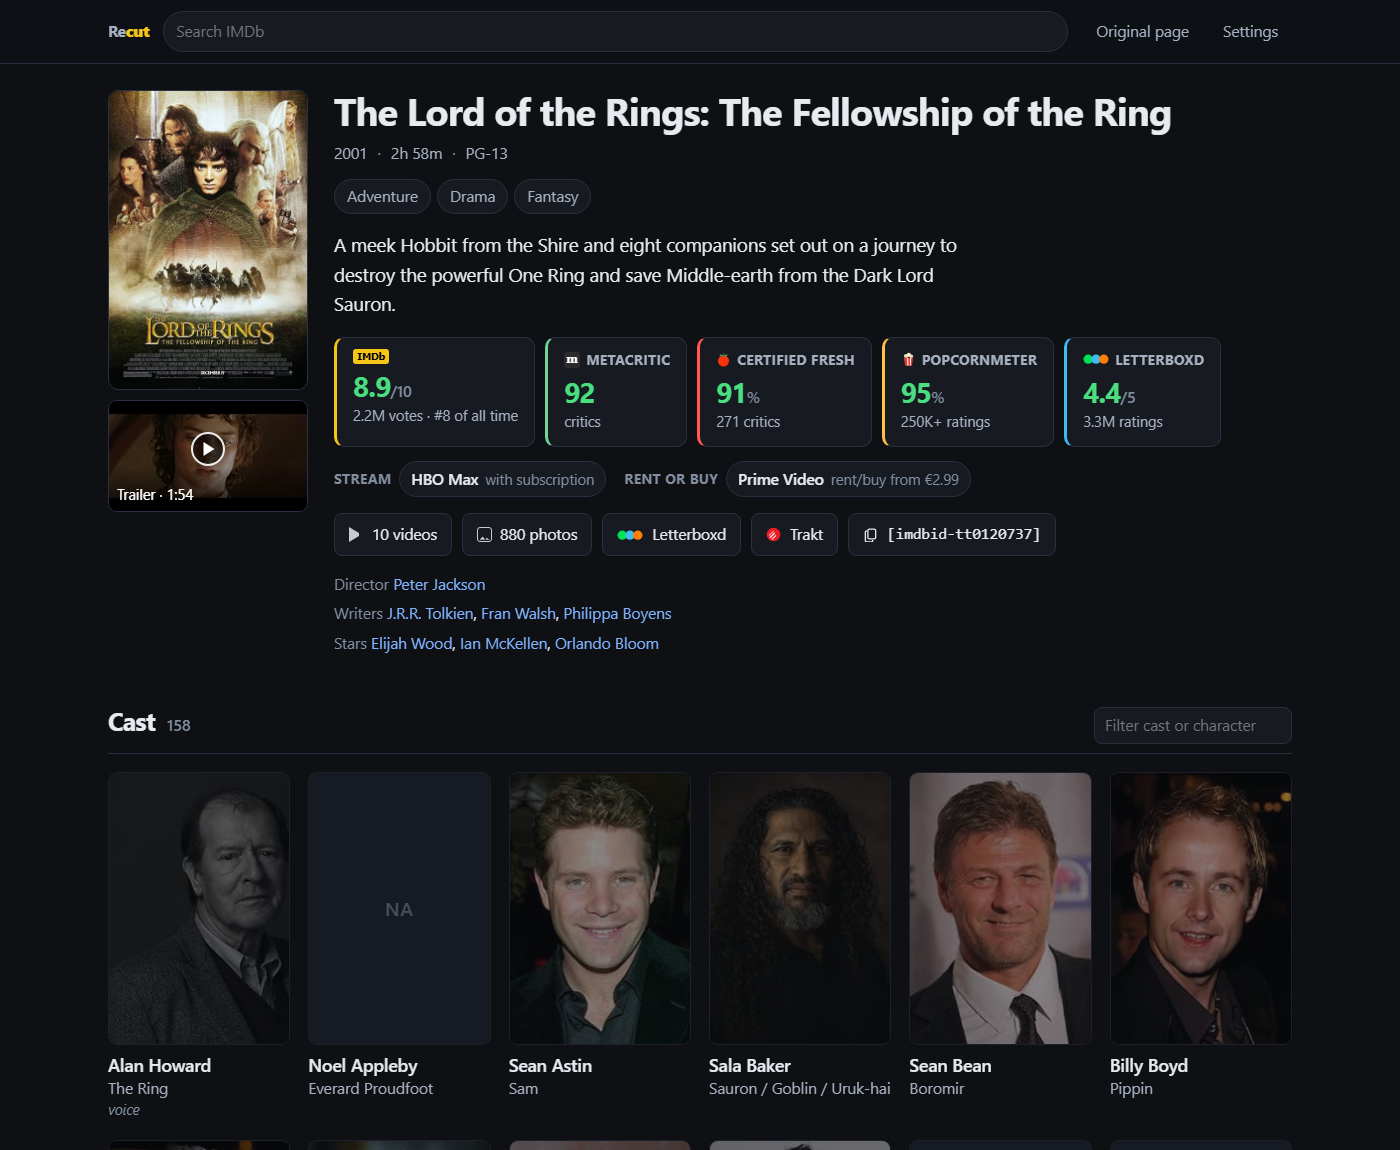
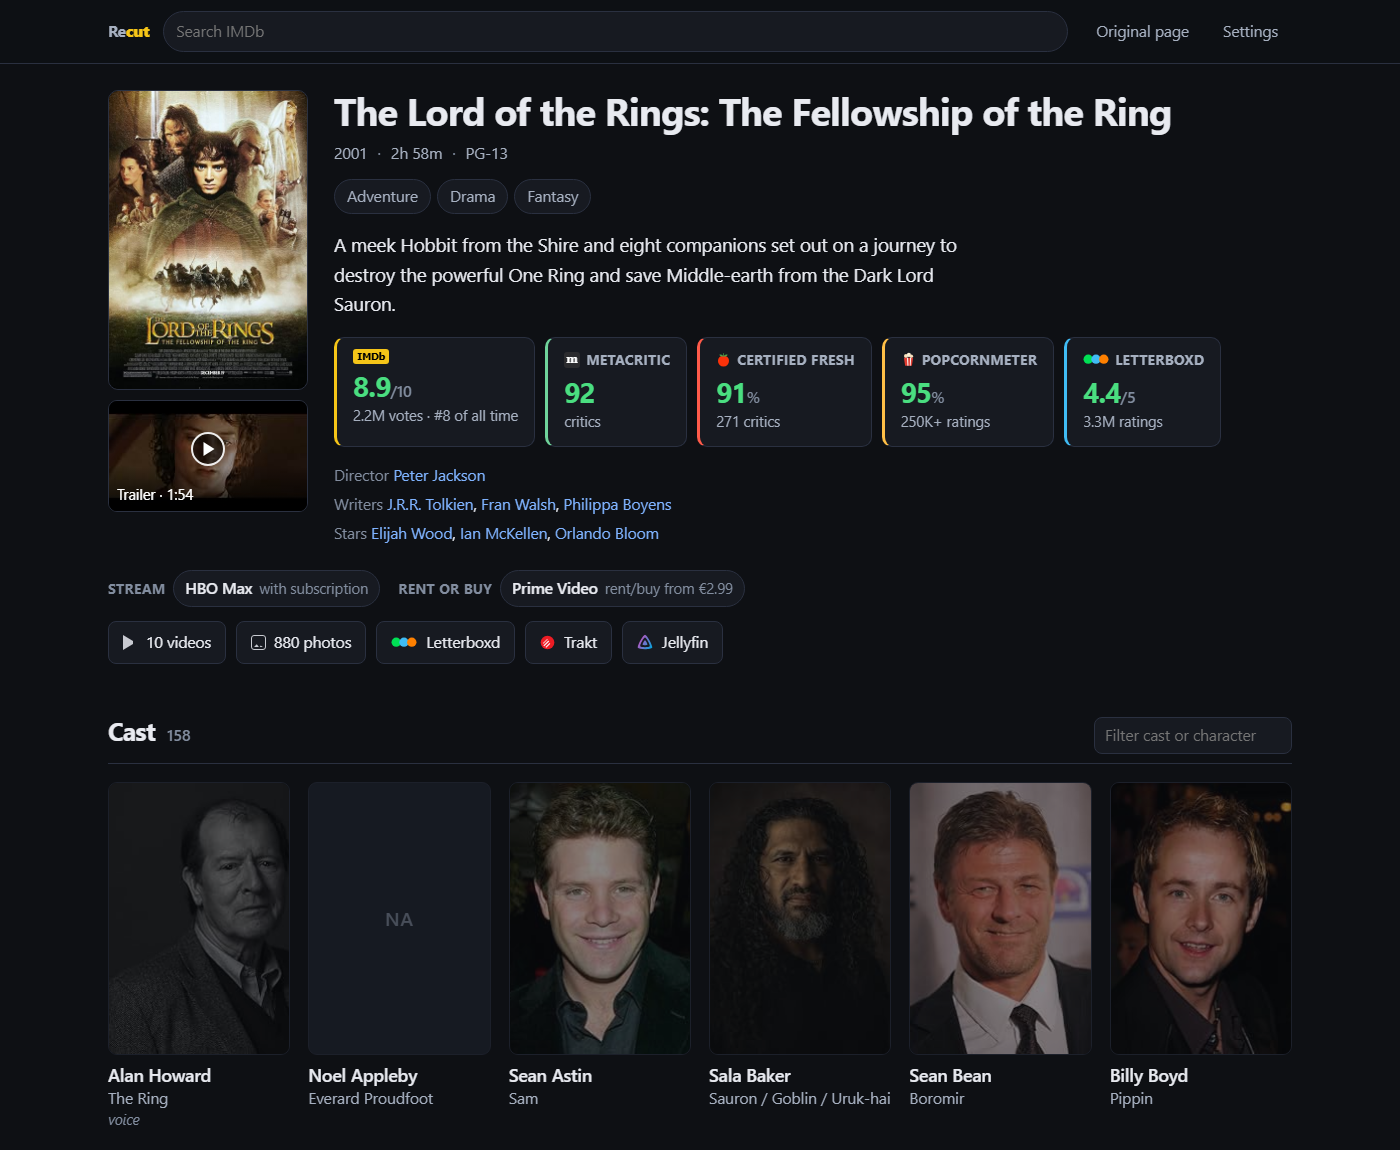
A Jellyfin button, two watch switches, and a hero that is not two thirds empty
The button is Jellyfin's own icon and the word Jellyfin, not a line of
[imdbid-tt0120737] set in monospace. The tag is still exactly what lands
on the clipboard, and the tooltip still says so. The icon is the
project's own file from jellyfin/jellyfin-ux, CC BY-SA 4.0, attributed
in the source and the README - an approximation would have been a worse
answer than the clipboard glyph it replaces.

Where-to-watch is two switches now, mapped per category: STREAMING and
FREE follow "where to stream", RENT/BUY and THEATER follow "where to
rent or buy" - a cinema ticket is paid per viewing, so it belongs with
the latter. A category neither table knows is shown while either half is
on, so IMDb adding a name cannot make a row vanish unexplained. Anyone
who had turned the old single setting off meant it, so loadSettings
reads the legacy value once and carries the false across, but only where
the new key has no value of its own.

And the Jellyfin setting was never listed in the settings panel, so the
only way to switch on the button it gated was the storage layer.
load-test walks SETTING_DEFS and asserts every on/off key appears in the
panel: a switch nobody can reach is not optional, it is off.

The hero: where-to-watch, the buttons and the media panel are all
naturally wide and were stacked in the narrow right-hand column, which
made that column far taller than the poster and left the bottom two
thirds of the left column blank. They are one band across both columns
[…]

diff --git a/recut.user.js b/recut.user.js
@@ -1,7 +1,7 @@
 // ==UserScript==
 // @name         Recut for IMDb
 // @namespace    https://github.com/MohsenBlur/imdb-recut
-// @version      2.13.0
+// @version      2.14.0
 // @description  Replaces IMDb pages with a dense, quiet layout: cast, user reviews (with Rotten Tomatoes critic + audience scores), season/episode counts and recommendations for titles; known-for and a full filmography with the characters played for people. Everything else is gone.
 // @author       MohsenBlur
 // @license      MIT
@@ -112,7 +112,8 @@
     hideSelfCredits: { def: true, label: 'Hide "Self" and archive-footage credits by default' },
     declineCookies: { def: true, label: 'Hide and decline the cookie banner' },
     cleanHomepage: { def: true, label: 'Replace the IMDb homepage' },
-    watchOptions: { def: true, label: 'Show where to watch' },
+    watchStream: { def: true, label: 'Show where to stream' },
+    watchRentBuy: { def: true, label: 'Show where to rent or buy' },
     trailers: { def: true, label: 'Show trailers and videos' },
     photos: { def: true, label: 'Show photos' },
     jellyfin: { def: false, label: 'Copy-for-Jellyfin button on titles' },
@@ -121,10 +122,22 @@
 
   const settings = {};
   function loadSettings() {
+    // `watchOptions` used to be one switch over both halves. Anyone who had
+    // turned it off meant it, so carry that across rather than handing them
+    // back a row they had already dismissed.
+    let legacyWatch;
+    try { legacyWatch = GM_getValue('setting:watchOptions', undefined); } catch (_) { legacyWatch = undefined; }
+
     for (const [key, def] of Object.entries(SETTING_DEFS)) {
       let v;
       try { v = GM_getValue('setting:' + key, def.def); } catch (_) { v = def.def; }
-      settings[key] = v === undefined || v === null ? def.def : v;
+      if (v === undefined || v === null) v = def.def;
+      if (legacyWatch === false && (key === 'watchStream' || key === 'watchRentBuy')) {
+        let own;
+        try { own = GM_getValue('setting:' + key, undefined); } catch (_) { own = undefined; }
+        if (own === undefined || own === null) v = false;
+      }
+      settings[key] = v;
     }
   }
   function saveSetting(key, value) {
@@ -1509,8 +1522,8 @@
     if (settings.jellyfin && jellyfinTag(t.id)) {
       parts.push(interpolate(html`
         <button type="button" class="imdbc-btn imdbc-ext" data-imdbc-jellyfin="${jellyfinTag(t.id)}"
-                title="Copy ${jellyfinTag(t.id)} \u2014 paste onto the folder or file name">
-          ${raw(MARKS.copy)}<span>${jellyfinTag(t.id)}</span></button>`));
+                title="Copy ${jellyfinTag(t.id)} — paste onto the folder or file name">
+          ${raw(MARKS.jellyfin)}<span>Jellyfin</span></button>`));
     }
     return parts.join('');
   }
@@ -1678,7 +1691,17 @@ html.imdbc-off #imdbc-root { display: none !important; }
 .imdbc-btn-ghost:hover { background: var(--imdbc-panel-2); color: var(--imdbc-text); }
 
 /* ── hero ──────────────────────────────────────────────────────────────── */
-.imdbc-hero { display: grid; grid-template-columns: 200px 1fr; gap: 26px; padding: 26px 0 8px; }
+/* Where to watch, the buttons and the media panel are naturally wide and were
+   stacked in the narrow right-hand column, which made that column tall enough
+   to leave a screenful of nothing under the poster. They run across both
+   columns now, so they start under the poster instead of beside it. */
+.imdbc-hero {
+  display: grid; grid-template-columns: 200px minmax(0, 1fr);
+  gap: 26px; padding: 26px 0 8px; align-items: start;
+}
+.imdbc-hero > .band { grid-column: 1 / -1; display: grid; gap: 14px; }
+.imdbc-hero > .band > :empty { display: none; }
+.imdbc-hero > .band > * { margin: 0; }
 .imdbc-hero-poster {
   width: 200px; aspect-ratio: 2 / 3; border-radius: 10px; overflow: hidden;
   background: var(--imdbc-panel-2); border: 1px solid var(--imdbc-border);
@@ -1998,12 +2021,8 @@ a.imdbc-score:hover { border-color: var(--brand, var(--imdbc-border)); text-deco
 .imdbc-actions { display: flex; flex-wrap: wrap; gap: 10px; margin: 16px 0 0; align-items: center; }
 .imdbc-ext { display: inline-flex; align-items: center; gap: 9px; padding: 8px 14px; }
 .imdbc-ext .mk-lbx { width: 26px; height: 10.4px; }
-/* The tag itself is the label, so it is set in the face a path belongs in. */
-:where(#imdbc-root) [data-imdbc-jellyfin] {
-  cursor: pointer;
-  font-family: ui-monospace, SFMono-Regular, Menlo, Consolas, monospace;
-  font-size: var(--fs-small);
-}
+:where(#imdbc-root) [data-imdbc-jellyfin] { cursor: pointer; }
+:where(#imdbc-root) [data-imdbc-jellyfin] .mk-svg { width: 16px; height: 16px; }
 :where(#imdbc-root) [data-imdbc-jellyfin].is-done {
   border-color: var(--rb-top); color: var(--rb-top);
 }
@@ -3293,6 +3312,19 @@ a.imdbc-score:hover { border-color: var(--brand, var(--imdbc-border)); text-deco
   // must never be written to the disk cache: it would be wrong the moment the
   // user travelled or switched a VPN on.
   const WATCH_CATEGORY_LABEL = { STREAMING: 'Stream', 'RENT/BUY': 'Rent or buy', FREE: 'Free', THEATER: 'In cinemas' };
+  // Which half of the setting each category belongs to. A cinema ticket is
+  // paid per viewing, so it sits with rent-or-buy rather than with streaming.
+  const WATCH_CATEGORY_SETTING = {
+    STREAMING: 'watchStream', FREE: 'watchStream',
+    'RENT/BUY': 'watchRentBuy', THEATER: 'watchRentBuy'
+  };
+
+  function watchCategoryOn(category) {
+    const key = WATCH_CATEGORY_SETTING[category];
+    // A category we have not seen is shown while either half is on: IMDb
+    // adding a name should not make a row disappear without explanation.
+    return key ? !!settings[key] : !!(settings.watchStream || settings.watchRentBuy);
+  }
 
   function fetchWatchOptions(titleId) {
     return memoize('watch:' + titleId, 30 * 60 * 1000, async () => {
@@ -3318,8 +3350,9 @@ a.imdbc-score:hover { border-color: var(--brand, var(--imdbc-border)); text-deco
   }
 
   function watchHtml(groups) {
-    if (!groups || !groups.length) return '';
-    return groups.map((g) => interpolate(html`
+    const shown = (groups || []).filter((g) => watchCategoryOn(g.category));
+    if (!shown.length) return '';
+    return shown.map((g) => interpolate(html`
       <span class="imdbc-watch-group">
         <span class="k">${WATCH_CATEGORY_LABEL[g.category] || g.category}</span>
         ${g.options.map((o) => html`
@@ -3331,7 +3364,7 @@ a.imdbc-score:hover { border-color: var(--brand, var(--imdbc-border)); text-deco
   }
 
   async function wireWatchOptions(root, t) {
-    if (!settings.watchOptions) return;
+    if (!settings.watchStream && !settings.watchRentBuy) return;
     const host = root.querySelector('[data-imdbc-watch]');
     if (!host || WATCH_UNSUPPORTED.test(t.typeId || '')) return;
     const token = renderSeq;
@@ -3982,13 +4015,13 @@ a.imdbc-score:hover { border-color: var(--brand, var(--imdbc-border)); text-deco
       ${topBar(titleUrl(t.id))}
       <div class="imdbc-wrap">
         <div class="imdbc-hero">
-          <div>
+          <div class="art">
             <div class="imdbc-hero-poster">
               ${heroPoster ? html`<img src="${heroPoster}" alt="Poster for ${t.title}" decoding="async">` : ''}
             </div>
             ${raw(trailerPreview(t))}
           </div>
-          <div>
+          <div class="head">
             <h1 class="imdbc-h1">${t.title}</h1>
             <div class="imdbc-sub">${raw(metaBits.join('<span class="dot">·</span>'))}</div>
             ${t.originalTitle && t.originalTitle !== t.title
@@ -3997,10 +4030,12 @@ a.imdbc-score:hover { border-color: var(--brand, var(--imdbc-border)); text-deco
             ${t.genres.length ? html`<div class="imdbc-chips">${t.genres.map((g) => html`<span class="imdbc-chip">${g}</span>`)}</div>` : ''}
             ${t.plot ? html`<p class="imdbc-plot">${t.plot}</p>` : ''}
             <div class="imdbc-scores" data-imdbc-scores>${raw(scoreStrip(t))}</div>
+            ${crewLines.length ? html`<div class="imdbc-crew">${crewLines}</div>` : ''}
+          </div>
+          <div class="band">
             <div class="imdbc-watchrow" data-imdbc-watch></div>
             <div class="imdbc-actions" data-imdbc-actions>${raw(actionsHtml(t))}</div>
             <div class="imdbc-mediapanel" data-imdbc-mediapanel></div>
-            ${crewLines.length ? html`<div class="imdbc-crew">${crewLines}</div>` : ''}
           </div>
         </div>
 
@@ -4058,9 +4093,15 @@ a.imdbc-score:hover { border-color: var(--brand, var(--imdbc-border)); text-deco
 
   // Small brand marks, so a glance tells you whose score you are reading.
   const MARKS = {
-    copy: '<svg class="mk mk-svg" viewBox="0 0 16 16" aria-hidden="true">'
-      + '<rect x="5.2" y="2.2" width="8.3" height="10.4" rx="1.5" fill="none" stroke="currentColor" stroke-width="1.4"/>'
-      + '<path d="M10.4 13.9v.4a1.5 1.5 0 0 1-1.5 1.5H4a1.5 1.5 0 0 1-1.5-1.5V5.6A1.5 1.5 0 0 1 4 4.1h.4" fill="none" stroke="currentColor" stroke-width="1.4"/></svg>',
+    // Jellyfin's own icon, verbatim from jellyfin/jellyfin-ux (branding/SVG/
+    // icon-transparent.svg), CC BY-SA 4.0 - the Jellyfin contributors. The
+    // gradient id is namespaced because several of these can share a page.
+    jellyfin: '<svg class="mk mk-svg" viewBox="0 0 512 512" aria-hidden="true">'
+      + '<defs><linearGradient id="imdbc-jf" gradientUnits="userSpaceOnUse" x1="110.25" y1="213.3" x2="496.14" y2="436.09">'
+      + '<stop offset="0" stop-color="#AA5CC3"/><stop offset="1" stop-color="#00A4DC"/></linearGradient></defs>'
+      + '<path d="M256,201.6c-20.4,0-86.2,119.3-76.2,139.4s142.5,19.9,152.4,0S276.5,201.6,256,201.6z" fill="url(#imdbc-jf)"/>'
+      + '<path d="M256,23.3c-61.6,0-259.8,359.4-229.6,420.1s429.3,60,459.2,0S317.6,23.3,256,23.3z'
+      + 'M406.5,390.8c-19.6,39.3-281.1,39.8-300.9,0s110.1-275.3,150.4-275.3S426.1,351.4,406.5,390.8z" fill="url(#imdbc-jf)"/></svg>',
     imdb: '<span class="mk mk-imdb">IMDb</span>',
     metacritic: '<span class="mk mk-mc" aria-hidden="true">m</span>',
     tomato: '<svg class="mk mk-svg" viewBox="0 0 16 16" aria-hidden="true">'
@@ -4813,7 +4854,8 @@ a.imdbc-score:hover { border-color: var(--brand, var(--imdbc-border)); text-deco
           ${SETTING_DEFS.theme.options.map((o) => html`<option value="${o}"${settings.theme === o ? raw(' selected') : ''}>${o}</option>`)}
         </select>
       </div>
-      ${['cleanHomepage', 'rottenTomatoes', 'watchOptions', 'trailers', 'photos', 'fullCast', 'fullCredits', 'hideSelfCredits', 'declineCookies'].map((k) => html`
+      ${['cleanHomepage', 'rottenTomatoes', 'watchStream', 'watchRentBuy', 'trailers', 'photos',
+        'fullCast', 'fullCredits', 'hideSelfCredits', 'jellyfin', 'declineCookies'].map((k) => html`
         <div class="imdbc-set-row">
           <label for="imdbc-set-${k}">${SETTING_DEFS[k].label}</label>
           <input id="imdbc-set-${k}" type="checkbox" data-set="${k}"${settings[k] ? raw(' checked') : ''}>

diff --git a/RECON.md b/RECON.md
@@ -595,3 +595,47 @@ policy), then `navigator.clipboard.writeText`, then a `execCommand('copy')`
 textarea. Both of the first two were verified with a real click in the browser;
 a *synthetic* click reaches neither, because they need user activation - which
 is why the first test of this showed the last-resort branch and not a bug.
+
+## 14. The title hero was two thirds empty (measured 2026-09-15)
+
+Where-to-watch, the action buttons and the media panel are all naturally wide,
+and all three were stacked inside the hero's narrow right-hand column. That made
+the column far taller than the poster beside it, so the bottom two thirds of the
+left column was blank while the right was crowded and wrapping.
+
+They are one band across both columns now (`grid-column: 1 / -1`), starting
+under the poster rather than beside it. On the same film page:
+
+| | before | after |
+| --- | --- | --- |
+| hero height | ~1,180px | ~560px |
+| score tiles | 3 + 2, wrapped | 5 across, one row |
+| where-to-watch | two lines | one |
+| action buttons | two rows | one |
+
+The column is `minmax(0, 1fr)` rather than `1fr`, so it takes its share of the
+row instead of being sized by its widest child.
+
+## 15. Two settings where there was one
+
+`watchOptions` covered both halves of the row. It is now `watchStream` and
+`watchRentBuy`, mapped per category:
+
+| IMDb category | switch |
+| --- | --- |
+| `STREAMING`, `FREE` | `watchStream` |
+| `RENT/BUY`, `THEATER` | `watchRentBuy` |
+
+A cinema ticket is paid per viewing, which puts it with rent-or-buy rather than
+with the subscriptions. A category neither table knows is shown while *either*
+half is on, so IMDb adding a name cannot make a row vanish unexplained.
+
+Anyone who had switched the old setting off meant it, so `loadSettings` reads
+the legacy value once and carries the `false` across to both halves - but only
+where the new key has no value of its own, or turning one back on would be
+undone on the next load.
+
+**And the Jellyfin button was gated on a setting the panel never listed**, so
+the only way to reach it was the storage layer. `load-test.mjs` now walks
+`SETTING_DEFS` and asserts every on/off key appears in the panel: a switch
+nobody can reach is not optional, it is off.

diff --git a/README.md b/README.md
@@ -26,8 +26,8 @@ the page still works, with less on it.
 
 Everything that puts something on screen has a toggle in **Settings** (top bar),
 including the homepage takeover, so it can be cut back further than the defaults.
-One is off until you want it: **Copy-for-Jellyfin** puts a button on every title
-that copies `[imdbid-tt0120737]`, the tag [Jellyfin reads out of a folder or file
+One is off until you want it: **Jellyfin** puts a button on every title that
+copies `[imdbid-tt0120737]`, the tag [Jellyfin reads out of a folder or file
 name](https://jellyfin.org/docs/general/server/media/movies/).
 **Original page** in the top bar shows you IMDb's real page instantly.
 
@@ -127,5 +127,8 @@ these sites' data shapes, including what turned out to be wrong the first time.
 
 ## Licence
 
-MIT — see [LICENSE](LICENSE). Not affiliated with IMDb. Uses IMDb's public
+MIT — see [LICENSE](LICENSE). Not affiliated with IMDb or Jellyfin. The
+Jellyfin icon is the project's own, from
+[jellyfin/jellyfin-ux](https://github.com/jellyfin/jellyfin-ux), CC BY-SA 4.0
+© the Jellyfin contributors. Uses IMDb's public
 endpoints for personal, non-commercial use.
